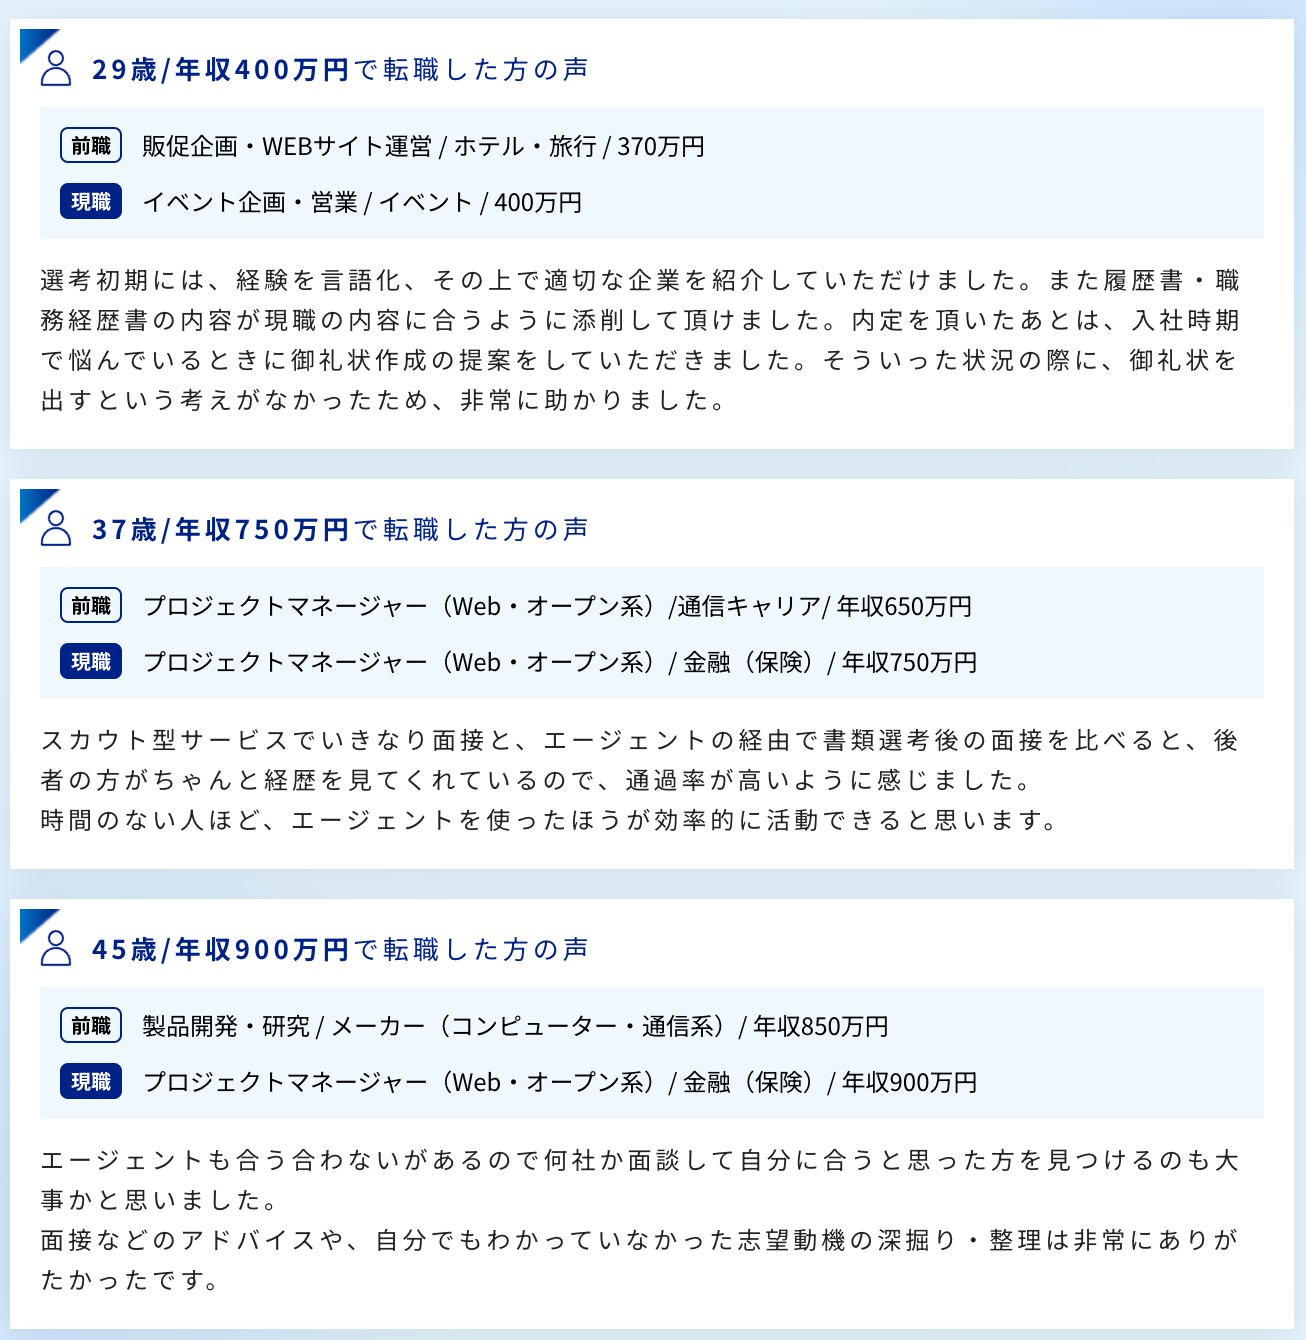
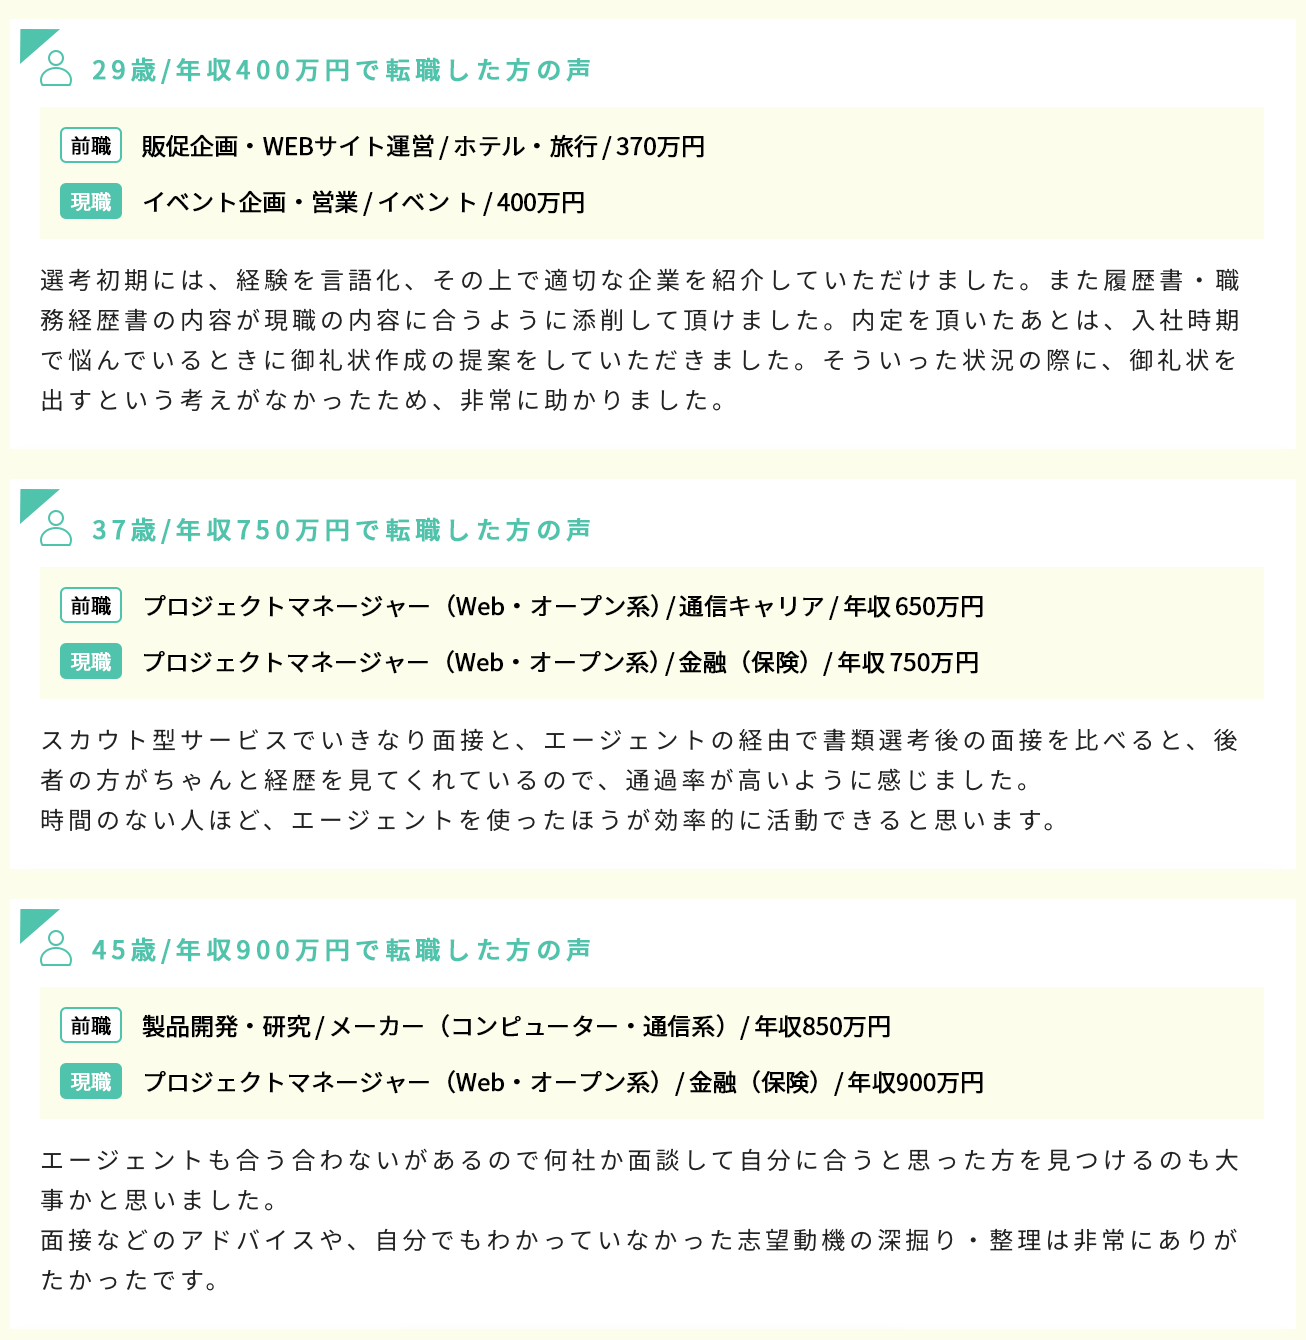
Add files via upload

diff --git a/css/styleA.min2.css b/css/styleA.min2.css
@@ -688,7 +688,7 @@ Ensure the default browser behavior of the `hidden` attribute.
 
 .border-\[\#659ed8\] {
   --tw-border-opacity: 1;
-  border-color: #22AEBF;
+  border-color: #4fc3ac;
 }
 
 .border-\[\#cfd3d7\] {
@@ -735,9 +735,9 @@ Ensure the default browser behavior of the `hidden` attribute.
   background-color: transparent;
 }
 
-.bg-\[\#f2614e\] {
+.bg-\[\#ff7f02\] {
   --tw-bg-opacity: 1;
-  background-color: rgb(242 97 78 / var(--tw-bg-opacity));
+  background-color: #ff7f02;
 }
 
 .bg-blue-300 {
@@ -827,7 +827,7 @@ Ensure the default browser behavior of the `hidden` attribute.
 
 .text-\[\#659ed8\] {
   --tw-text-opacity: 1;
-  color: #22AEBF;
+  color: #4fc3ac;
   display: flex;
   justify-content: center;
     align-items: center;
@@ -849,9 +849,9 @@ Ensure the default browser behavior of the `hidden` attribute.
   color: rgb(166 168 170 / var(--tw-text-opacity));
 }
 
-.text-\[\#f2614e\] {
+.text-\[\#ff7f02\] {
   --tw-text-opacity: 1;
-  color: rgb(242 97 78 / var(--tw-text-opacity));
+  color: #ff7f02;
 }
 
 .text-\[\#d4a9db\] {
@@ -1020,7 +1020,7 @@ html {
 }
 
 .num_active {
-  background: #f2614e;
+  background: #ff7f02;
 }
 
 .prev_active {
@@ -1039,7 +1039,7 @@ html {
 }
 
 .text_active {
-  color: #f2614e;
+  color: #ff7f02;
 }
 
 .mainbg {
